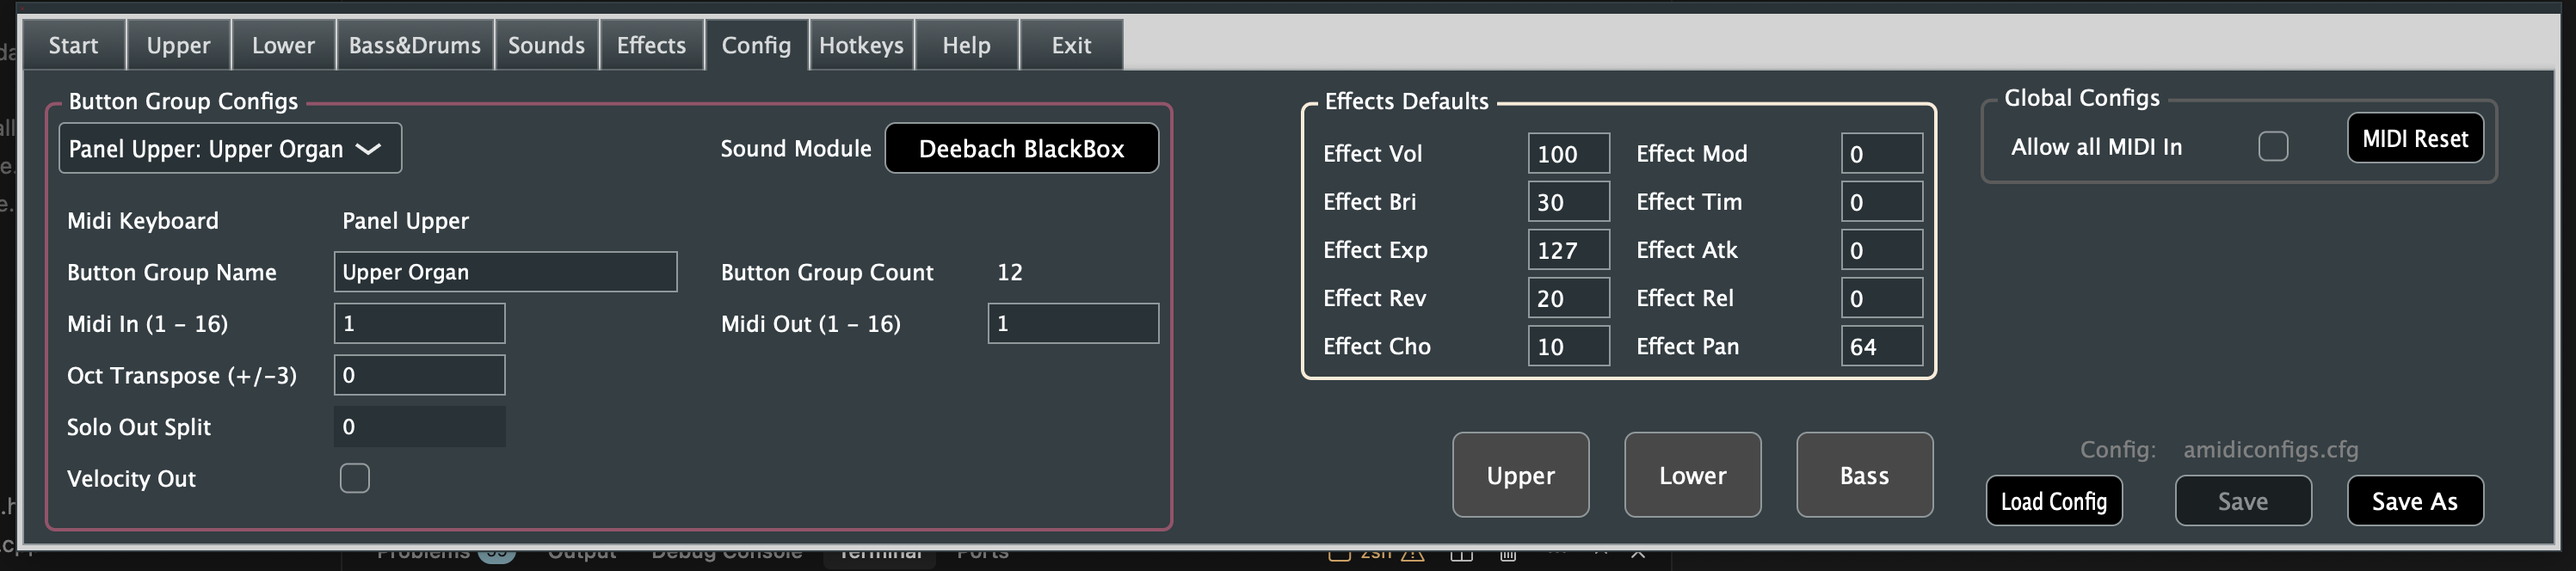
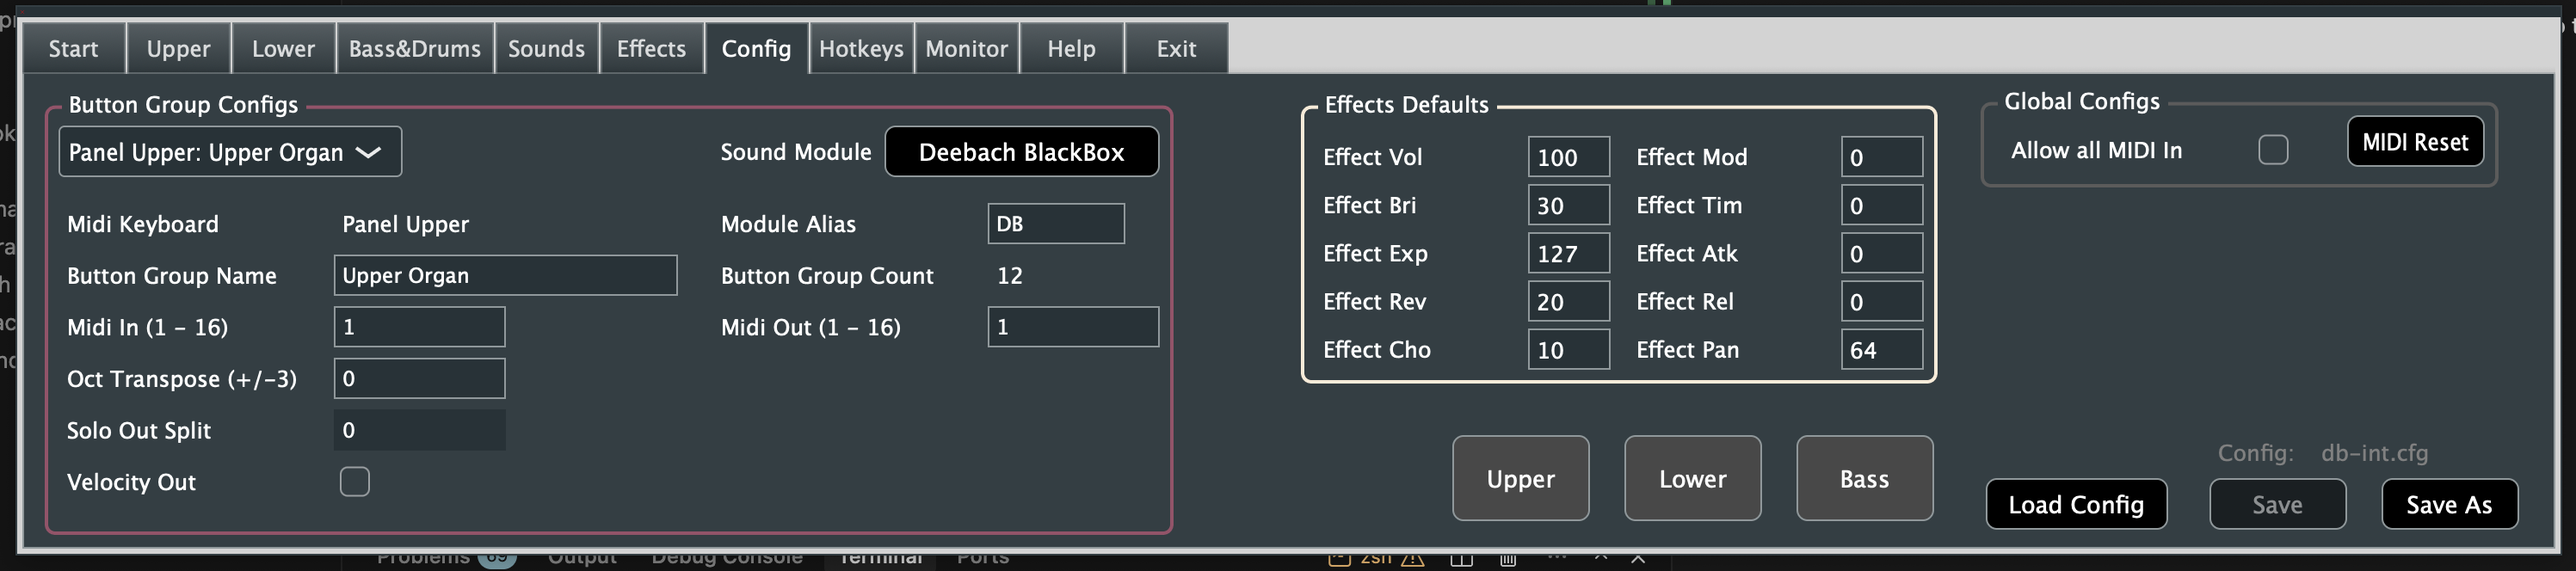
Refresh user docs and tab screenshots for end-user guidance.
Update USER_MANUAL with screenshot callouts, add monitor screenshot reference in README, and include latest docs/image assets while keeping local build output excluded from commit.

Made-with: Cursor

diff --git a/USER_MANUAL.md b/USER_MANUAL.md
@@ -120,6 +120,15 @@ Expected result:
 
 Primary use: startup and system setup.
 
+Reference image:
+
+![Start Tab](docs/images/tab-start.png)
+
+Quick read (look here first):
+
+- Focus first on the top area for MIDI device and module selection.
+- Then confirm panel/config status in the middle/lower area before moving on.
+
 You can:
 
 - Select MIDI input and output devices
@@ -143,6 +152,19 @@ Expected result:
 ## 6.2 Upper / Lower / Bass&Drums Tabs
 
 Primary use: live play and switching.
+
+Reference images:
+
+![Upper Tab](docs/images/tab-upper.png)
+
+![Lower Tab](docs/images/tab-lower.png)
+
+![Bass&Drums Tab](docs/images/tab-bass.png)
+
+Quick read (look here first):
+
+- Focus first on the large button grids; these are your active playable voices.
+- Then use side controls for per-group level/mute, and row buttons to open Sounds/Effects editing.
 
 Each tab contains:
 
@@ -176,6 +198,15 @@ Expected result:
 
 Primary use: assign instrument voice to selected voice button.
 
+Reference image:
+
+![Sounds Tab](docs/images/tab-sounds.png)
+
+Quick read (look here first):
+
+- Focus first on the left-side controls to navigate categories and pages.
+- Then choose the target voice from the main content area.
+
 How to use:
 
 1. Select target voice button from a performance tab first.
@@ -197,6 +228,15 @@ Expected result:
 ## 6.4 Effects Tab
 
 Primary use: edit per-voice effects in real time.
+
+Reference image:
+
+![Effects Tab](docs/images/tab-effects.png)
+
+Quick read (look here first):
+
+- Focus first on the slider/control section; it edits the selected voice's effect values.
+- Then check low-audibility settings first (`VOL`, `EXP`, `BRI`) when troubleshooting sound.
 
 How to use:
 
@@ -220,6 +260,15 @@ Expected result:
 ## 6.5 Config Tab
 
 Primary use: routing and behavior setup.
+
+Reference image:
+
+![Config Tab](docs/images/tab-config.png)
+
+Quick read (look here first):
+
+- Focus first on each row/group block; it defines routing and module/channel behavior.
+- Then use Save/Apply actions and retest performance tabs after changes.
 
 You can configure:
 
@@ -246,6 +295,15 @@ Expected result:
 ## 6.6 Hotkeys Tab
 
 Primary use: keyboard shortcut customization.
+
+Reference image:
+
+![Hotkeys Tab](docs/images/tab-hotkeys.png)
+
+Quick read (look here first):
+
+- Focus first on command rows; each row maps one action to one key.
+- Then use Save/Cancel to apply or discard shortcut edits.
 
 You can:
 
@@ -291,6 +349,15 @@ Expected result:
 - You can see outgoing MIDI lines while enabled and retain history until cleared.
 
 ## 6.8 Help Tab
+
+Reference image:
+
+![Help Tab](docs/images/tab-help.png)
+
+Quick read (look here first):
+
+- Focus first on this tab as your in-app quick reference during setup/performance.
+- Then keep it available for fast reminders without leaving the application.
 
 - Displays in-app user guidance.
 - Use it for quick reference during setup/performance.

diff --git a/README.md b/README.md
@@ -48,6 +48,10 @@ Each panel uses the active configuration and panel data to determine which voice
 
 ![Config Tab](docs/images/tab-hotkeys.png)
 
+### Monitor Tab
+
+![Config Tab](docs/images/tab-monitor.png)
+
 ### Help Tab
 
 ![Config Tab](docs/images/tab-help.png)
